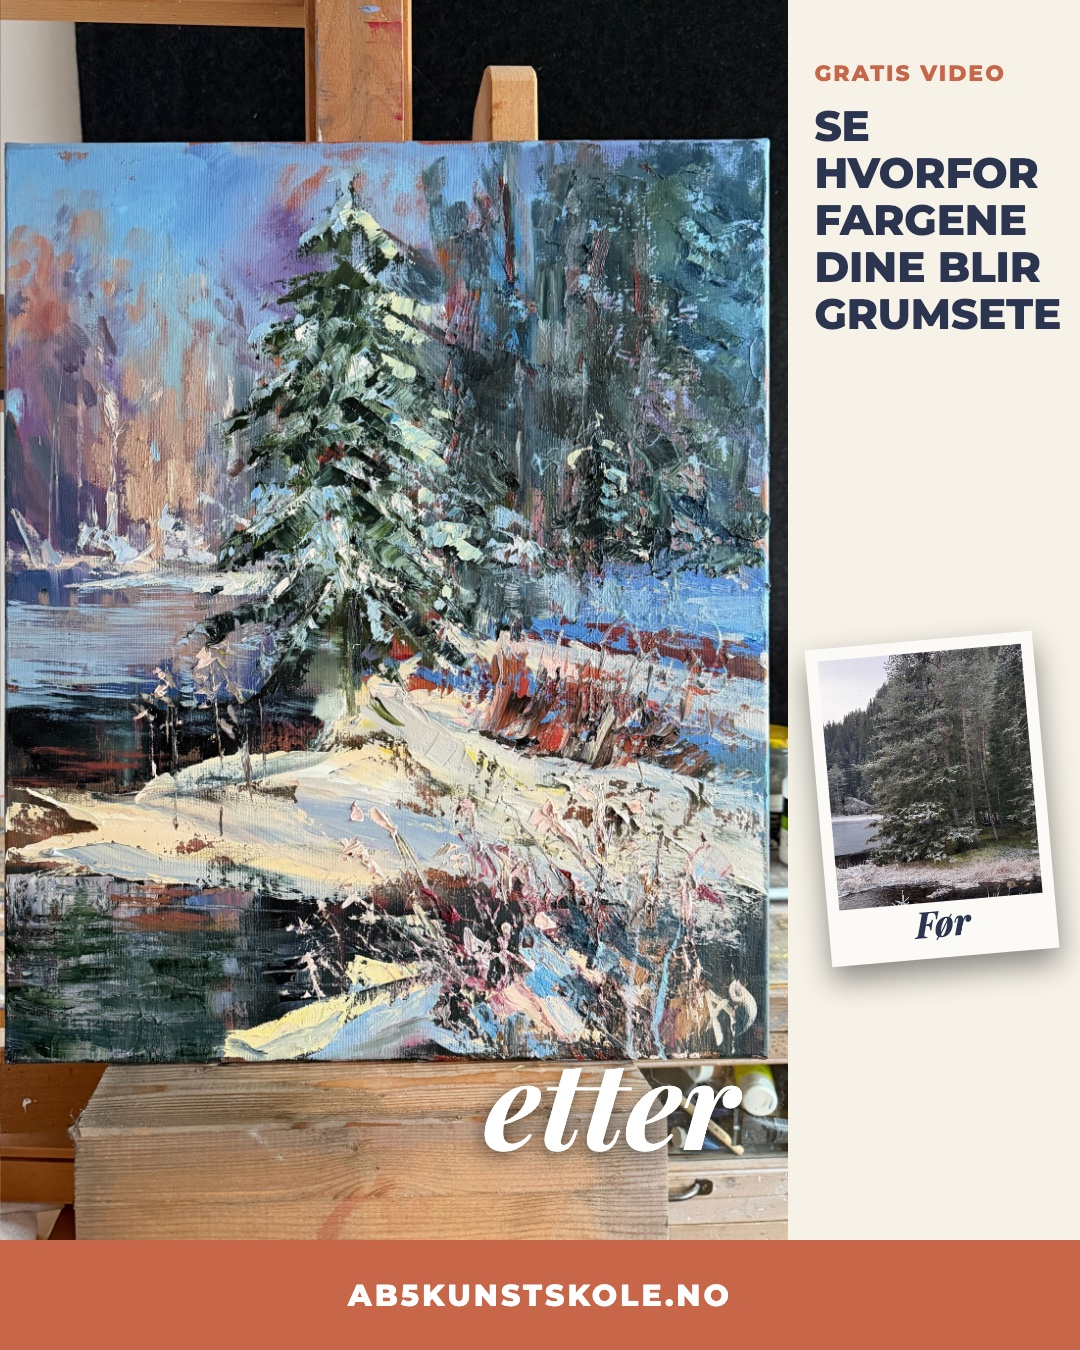
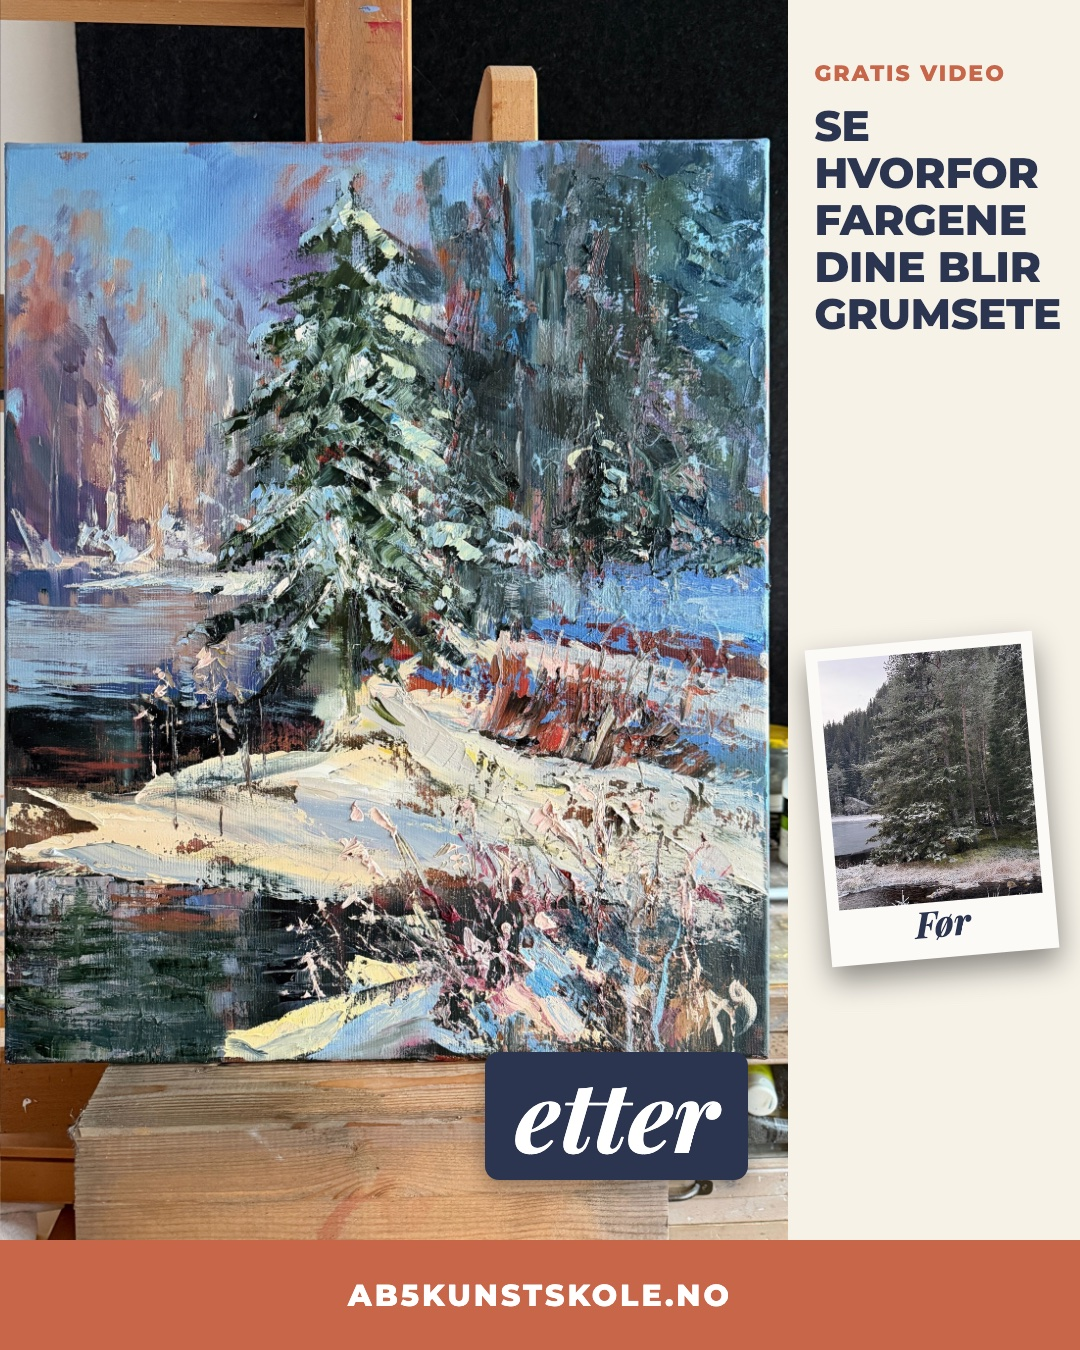
feat: new before/after layout and caption tags

Changed region(s): [[0.4278, 0.7778, 0.7028, 0.9022]]

diff --git a/index.html b/index.html
@@ -297,17 +297,13 @@ hr{display:none}
 <h2 id="p1">P1: Før/Etter split</h2>
 <div class="gallery"><a href="images/p1-for-etter-feed.jpg" target="_blank"><img class="ad" src="images/p1-for-etter-feed.jpg" alt="P1 feed"></a><a href="images/p1-for-etter-story.jpg" target="_blank"><img class="ad" src="images/p1-for-etter-story.jpg" alt="P1 story"></a></div>
 
-<p><strong>Format:</strong> same as "Image 1 Before After". 4:5 feed and 9:16 story.
+<p><strong>Format:</strong> two framed pictures side by side on a light background (the full-picture split blurred the difference on this busy painting). 4:5 feed and 9:16 story.
 <strong>Audience:</strong> cold.</p>
 <h3>Image brief</h3>
 <ul>
-<li>Left: Agita's reference photo of the frosty spruce by the river (<code>assets/ads/workshop-jan-2027/source/reference-photo.jpg</code>). Right: her painting of the same scene (<code>painting-flat.jpg</code>). Soft light gradient as the divider.</li>
-<li>Top: «Før» left, «Etter» right, white italic serif.</li>
-<li>Text box lower third, light background, as in the winner:</li>
-<li>Small caps: <strong>GRATIS VIDEO</strong></li>
-<li>Serif headline: <strong>Fra kjedelig foto til vakkert vintermotiv</strong></li>
-<li>Small caps: <strong>DET ER ENKLERE ENN DU TROR</strong></li>
-<li><strong>AB5KUNSTSKOLE.NO</strong></li>
+<li>Top: <strong>GRATIS VIDEO</strong> / serif headline <strong>Fra kjedelig foto til vakkert vintermotiv</strong>.</li>
+<li>Two white-framed pictures: left Agita's reference photo, right her painting. Solid tags under them: «Før» (grey), «Etter» (navy).</li>
+<li>Under: <strong>DET ER ENKLERE ENN DU TROR</strong>, then a terracotta bar with <strong>AB5KUNSTSKOLE.NO</strong>.</li>
 </ul>
 <h3>Primary text</h3>
 <p><strong>1</strong> (same structure as the winner)</p>
@@ -346,13 +342,13 @@ hr{display:none}
 <h2 id="p1b">P1b: Før/Etter split, muddy painting</h2>
 <div class="gallery"><a href="images/p1b-grumsete-feed.jpg" target="_blank"><img class="ad" src="images/p1b-grumsete-feed.jpg" alt="P1b feed"></a><a href="images/p1b-grumsete-story.jpg" target="_blank"><img class="ad" src="images/p1b-grumsete-story.jpg" alt="P1b story"></a></div>
 
-<p><strong>Format:</strong> same split as P1, but the Før side is a muddy, flat version of the same painting instead of the photo. 4:5 feed and 9:16 story. Test against P1.
+<p><strong>Format:</strong> same side-by-side layout as P1, but the Før picture is a muddy, flat version of the same painting instead of the photo. 4:5 feed and 9:16 story. Test against P1.
 <strong>Audience:</strong> cold.</p>
 <h3>Image brief</h3>
 <ul>
-<li>Left: Agita's painting made dull and muddy (lower saturation, brown cast, flat contrast, slight blur), aligned with the right side so the spruce runs across the seam. This is an illustration of grumsete colours, not a real student painting.</li>
-<li>Right: the original painting.</li>
-<li>Text box: <strong>GRATIS VIDEO</strong> / <strong>Samme motiv. Samme farger.</strong> / <strong>SE HVORFOR DET BLIR GRUMSETE</strong> / <strong>AB5KUNSTSKOLE.NO</strong></li>
+<li>Headline: <strong>Samme motiv. Samme farger.</strong></li>
+<li>Left frame: Agita's painting made dull and muddy (lower saturation, brown cast, flat contrast, slight blur). This is an illustration of grumsete colours, not a real student painting. Right frame: the original painting.</li>
+<li>Under: <strong>SE HVORFOR DET BLIR GRUMSETE</strong> and the <strong>AB5KUNSTSKOLE.NO</strong> bar.</li>
 </ul>
 <h3>Primary text</h3>
 <p><strong>1</strong></p>
@@ -396,7 +392,7 @@ hr{display:none}
 <h3>Image brief</h3>
 <ul>
 <li>Polaroid of the reference photo, labelled «Før», in the right panel under the text, so it does not cover the painting.</li>
-<li>Agita's painting on the easel (<code>painting-easel.jpg</code>), «etter» in white italic serif on the painting.</li>
+<li>Agita's painting on the easel (<code>painting-easel.jpg</code>), «etter» in a solid navy tag on the painting.</li>
 <li>Right side: vertical light panel with a paintbrush:</li>
 <li>Small caps: <strong>GRATIS VIDEO</strong></li>
 <li>Bold: <strong>SE HVORFOR FARGENE DINE BLIR GRUMSETE</strong></li>
@@ -443,7 +439,7 @@ hr{display:none}
 <strong>Audience:</strong> cold and retarget.</p>
 <h3>Image brief</h3>
 <ul>
-<li>Main: Nina's painting (<code>source/student-nina.jpg</code>), caption «Malt av Nina» in white italic serif.</li>
+<li>Main: Nina's painting (<code>source/student-nina.jpg</code>), caption «Malt av Nina» in a solid navy tag, so it stays readable on the painting.</li>
 <li>Right panel: <strong>ELEVARBEID</strong> / <strong>DETTE ER IKKE AGITAS MALERI</strong>, with the reference photo as a polaroid labelled «Motivet» below the text.</li>
 <li>Bottom bar: <strong>AB5KUNSTSKOLE.NO</strong></li>
 </ul>
